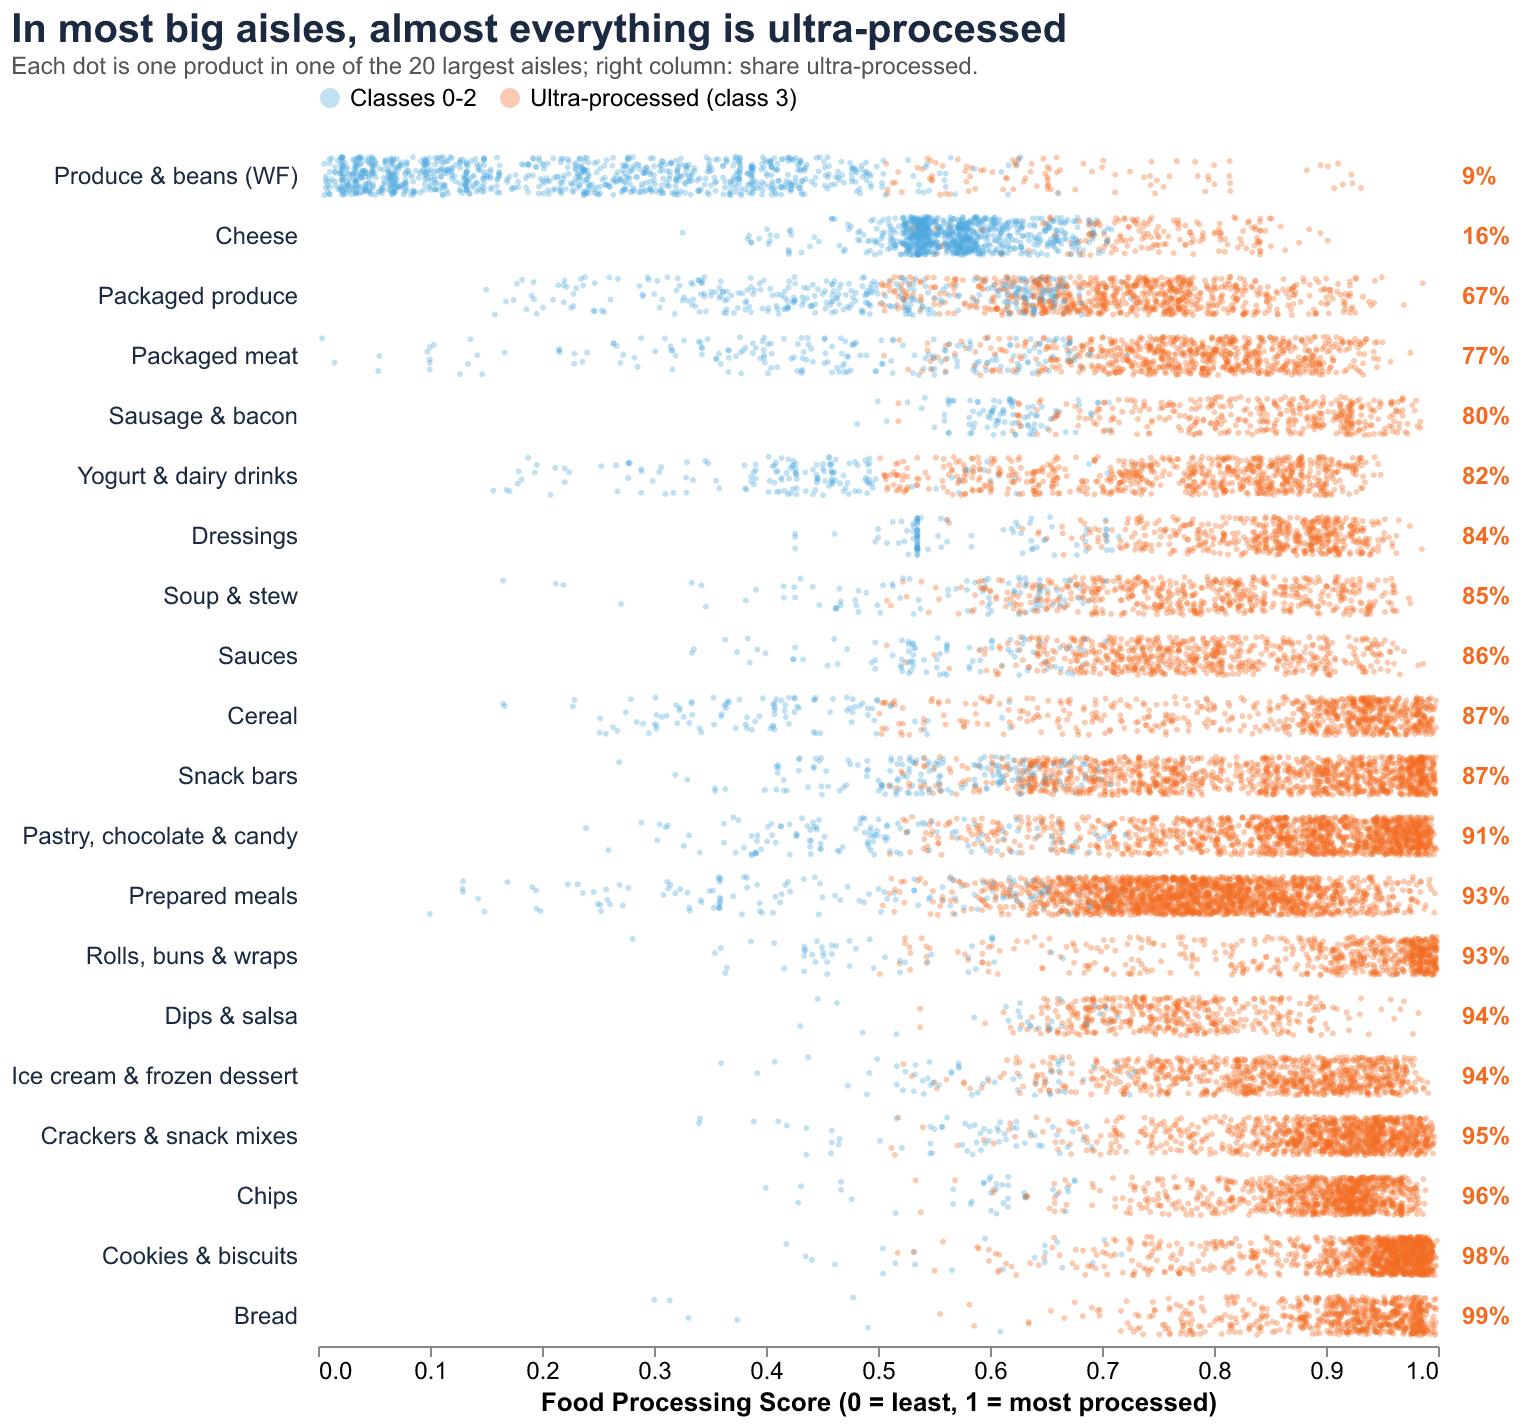
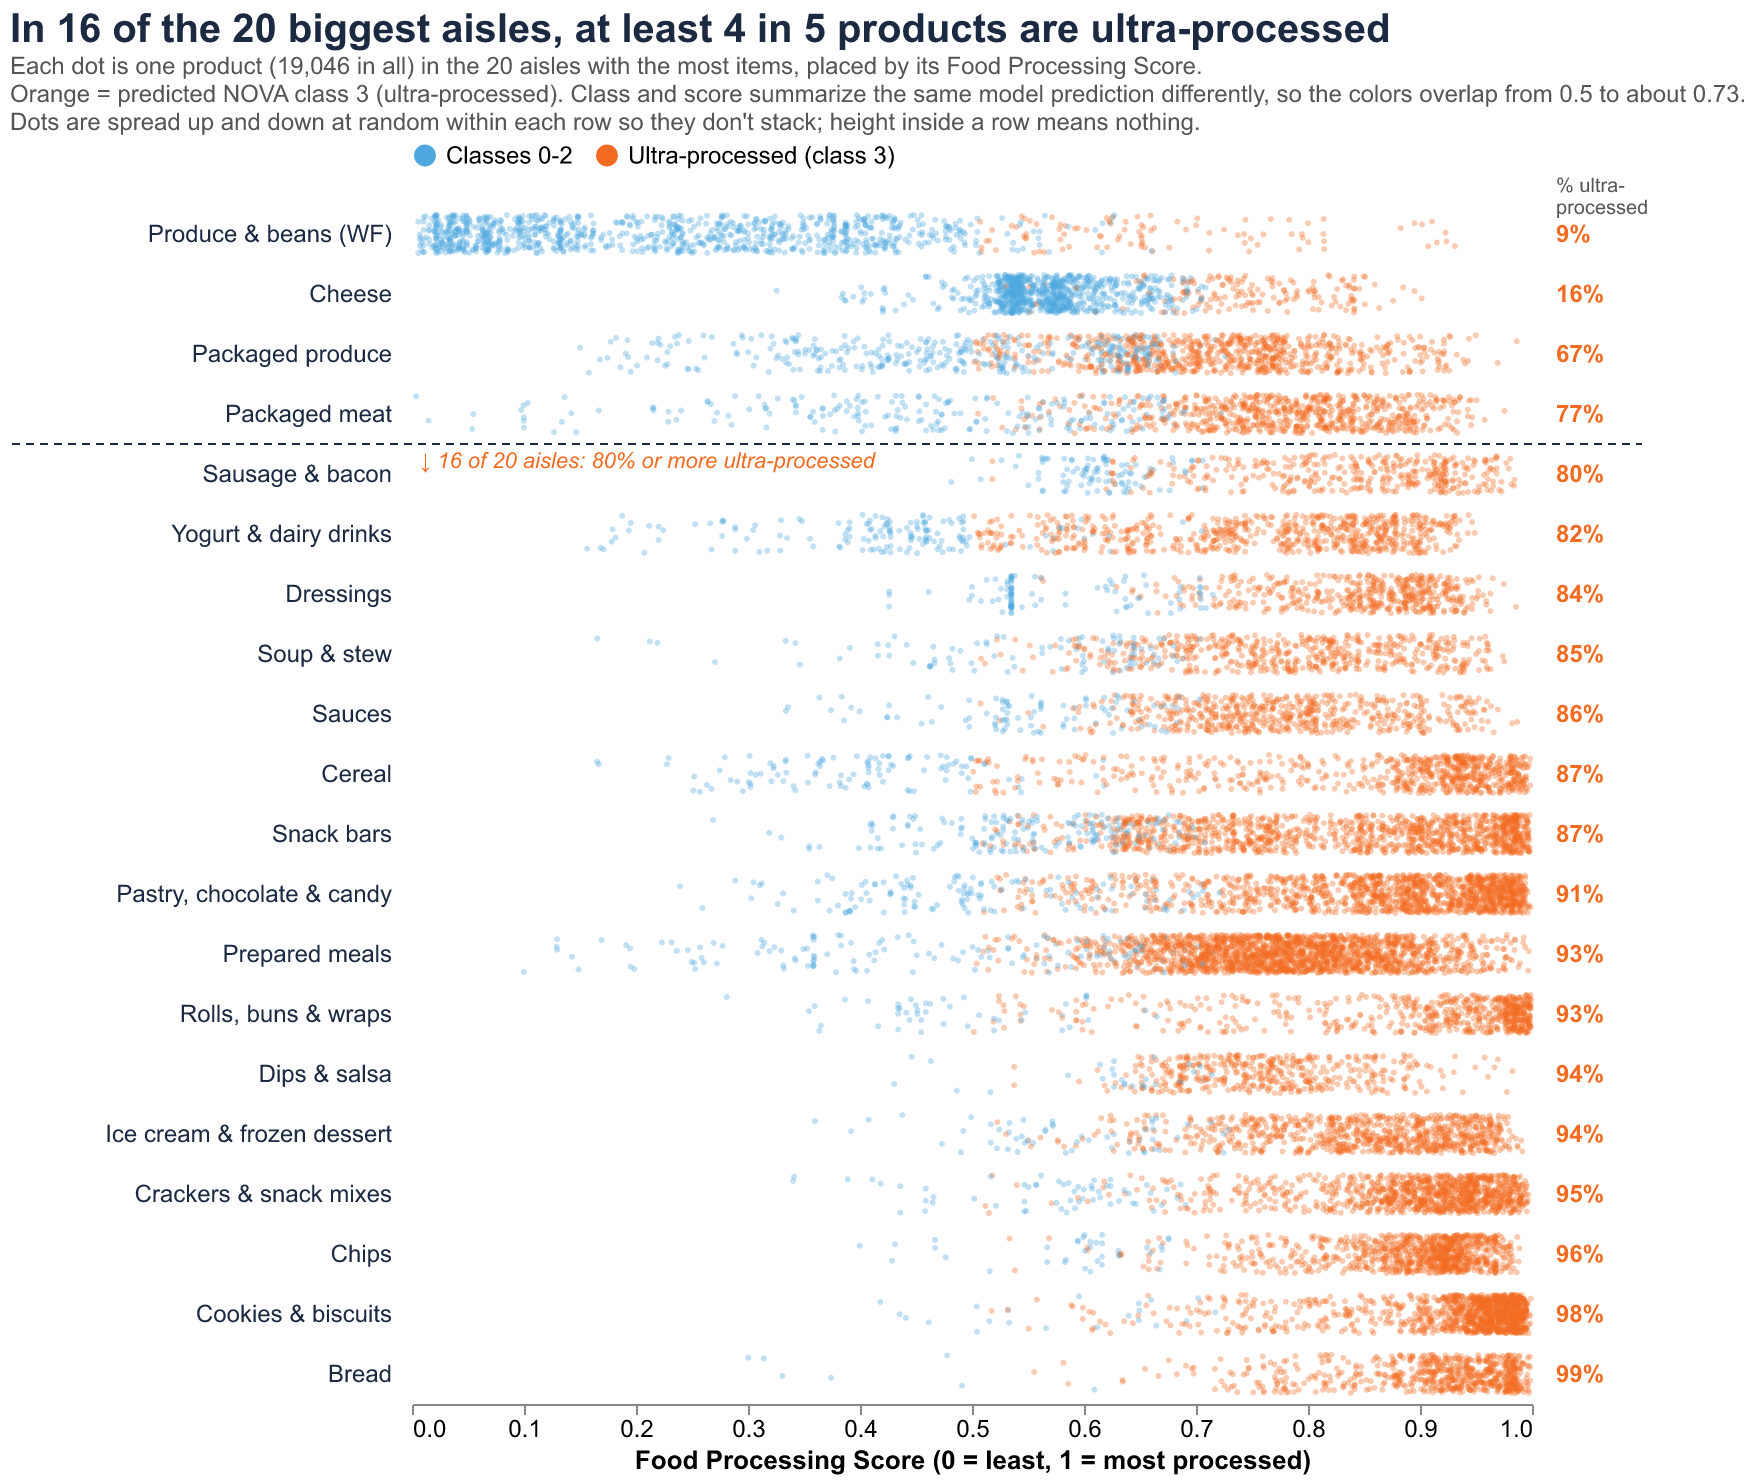
Project 1: add the 80% divider, share header and data notes to plot 3

diff --git a/Project-1/project1/aisle_strip_plot.py b/Project-1/project1/aisle_strip_plot.py
@@ -9,6 +9,9 @@ from project1.theme import ACCENT, CONTEXT, DARK, SUBTITLE, apply_theme
 ROW_HEIGHT: int = 30
 PLOT_WIDTH: int = 560
 
+# Aisles at or above this ultra-processed share sit below the divider.
+MOSTLY_ULTRA_PCT: float = 80.0
+
 ULTRA: str = "Ultra-processed (class 3)"
 NOT_ULTRA: str = "Classes 0-2"
 
@@ -41,8 +44,16 @@ def build_aisle_strip_plot(items: pd.DataFrame, aisles: pd.DataFrame) -> alt.Top
             color=alt.Color(
                 "kind:N",
                 scale=alt.Scale(domain=[NOT_ULTRA, ULTRA], range=[CONTEXT, ACCENT]),
-                legend=alt.Legend(title=None, orient="top", direction="horizontal", labelFontSize=12),
+                legend=alt.Legend(
+                    title=None,
+                    orient="top",
+                    direction="horizontal",
+                    labelFontSize=12,
+                    symbolOpacity=1,
+                    symbolSize=120,
+                ),
             ),
+            tooltip=["label", alt.Tooltip("FPro:Q", format=".2f"), "kind"],
         )
     )
     names = (
@@ -55,11 +66,41 @@ def build_aisle_strip_plot(items: pd.DataFrame, aisles: pd.DataFrame) -> alt.Top
         .mark_text(align="left", fontSize=12, fontWeight="bold", color=ACCENT)
         .encode(x=alt.value(PLOT_WIDTH + 12), y=alt.Y("row:Q", scale=y_scale, axis=no_axis), text="share_text:N")
     )
+    share_header = (
+        alt.Chart(pd.DataFrame({"text": [["% ultra-", "processed"]]}))
+        .mark_text(align="left", baseline="bottom", fontSize=10, color=SUBTITLE, lineHeight=11)
+        .encode(x=alt.value(PLOT_WIDTH + 12), y=alt.value(-4), text="text")
+    )
+    n_mostly = int((aisles["pct_ultra"] >= MOSTLY_ULTRA_PCT).sum())
+    divider_y = ROW_HEIGHT * (n_rows - n_mostly)
+    divider = (
+        alt.Chart(pd.DataFrame({"y": [divider_y]}))
+        .mark_rule(color=DARK, strokeDash=[4, 3], strokeWidth=1)
+        .encode(y=alt.value(divider_y), x=alt.value(-200), x2=alt.value(PLOT_WIDTH + 55))
+    )
+    divider_note = (
+        alt.Chart(
+            pd.DataFrame(
+                {"text": [f"↓ {n_mostly} of {n_rows} aisles: {MOSTLY_ULTRA_PCT:.0f}% or more ultra-processed"]}
+            )
+        )
+        .mark_text(align="left", baseline="top", fontSize=11, fontStyle="italic", color=ACCENT)
+        .encode(x=alt.value(4), y=alt.value(divider_y + 3), text="text:N")
+    )
     title = alt.TitleParams(
-        "In most big aisles, almost everything is ultra-processed",
-        subtitle="Each dot is one product in one of the 20 largest aisles; right column: share ultra-processed.",
+        f"In {n_mostly} of the {n_rows} biggest aisles, at least 4 in 5 products are ultra-processed",
+        subtitle=[
+            f"Each dot is one product ({len(items):,} in all) in the {n_rows} aisles with the most items, "
+            "placed by its Food Processing Score.",
+            "Orange = predicted NOVA class 3 (ultra-processed). Class and score summarize the same model "
+            "prediction differently, so the colors overlap from 0.5 to about 0.73.",
+            "Dots are spread up and down at random within each row so they don't stack; "
+            "height inside a row means nothing.",
+        ],
         color=DARK,
     )
     return apply_theme(
-        alt.layer(dots, names, shares).properties(width=PLOT_WIDTH, height=ROW_HEIGHT * n_rows, title=title)
+        alt.layer(divider, dots, names, shares, share_header, divider_note).properties(
+            width=PLOT_WIDTH, height=ROW_HEIGHT * n_rows, title=title
+        )
     )
